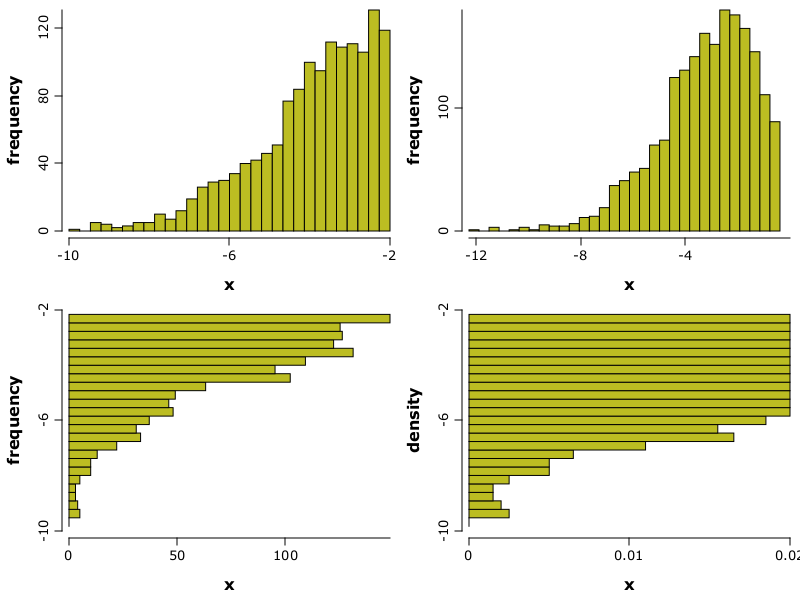
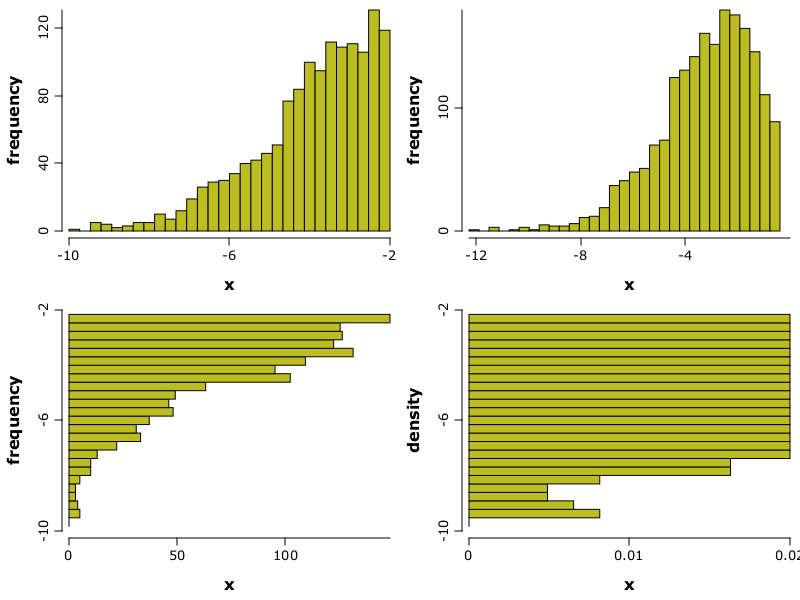
- v4.0.0 - fix a histogram artist bug (not display properly when using prob parameter) - merge into a single mvn

Changed region(s): [[0.5938, 0.69, 1.0, 0.87]]

diff --git a/tst/rapaio/graphics/plot/artist/HistogramTest.java b/tst/rapaio/graphics/plot/artist/HistogramTest.java
@@ -2,6 +2,7 @@ package rapaio.graphics.plot.artist;
 
 import static rapaio.graphics.Plotter.*;
 import static rapaio.sys.With.bins;
+import static rapaio.sys.With.fill;
 import static rapaio.sys.With.horizontal;
 import static rapaio.sys.With.prob;
 
@@ -15,8 +16,8 @@ import rapaio.data.Frame;
 import rapaio.data.Mapping;
 import rapaio.data.Var;
 import rapaio.datasets.Datasets;
+import rapaio.graphics.opt.NColor;
 import rapaio.graphics.plot.GridLayer;
-import rapaio.graphics.plot.artist.AbstractArtistTest;
 import rapaio.image.ImageTools;
 
 public class HistogramTest extends AbstractArtistTest {
@@ -36,12 +37,20 @@ public class HistogramTest extends AbstractArtistTest {
 
         GridLayer grid = new GridLayer(2, 2);
 
-        grid.add(hist(x, -10, -2, bins(30)).xLim(-10,-2));
+        grid.add(hist(x, -10, -2, bins(30)).xLim(-10, -2));
         grid.add(hist(x));
 
-        grid.add(hist(x, bins(40), horizontal(true)).yLim(-10,-2));
-        grid.add(hist(x, bins(40), horizontal(true), prob(true)).yLim(-10,-2).xLim(0, 0.02));
+        grid.add(hist(x, bins(40), horizontal(true)).yLim(-10, -2));
+        grid.add(hist(x, bins(40), horizontal(true), prob(true)).yLim(-10, -2).xLim(0, 0.02));
 
         assertTest(grid, "hist-test");
+    }
+
+    @Test
+    void testNormedHistogram() throws IOException {
+        Frame iris = Datasets.loadIrisDataset();
+        var v = iris.rvar("sepal-length");
+        assertTest(hist(v, bins(30), prob(true), fill(NColor.tab_purple))
+                .densityLine(v, (v.dv().max() - v.dv().min())/15), "hist-density-test");
     }
 }

diff --git a/src/rapaio/io/Csv.java b/src/rapaio/io/Csv.java
@@ -289,7 +289,7 @@ public class Csv extends ParamSet<Csv> {
         List<Var> variables = new ArrayList<>();
         for (int i = 0; i < varSlots.size(); i++) {
             String name = names.size() > i ? names.get(i) : "V" + (i + 1);
-            variables.add(varSlots.get(i).rvar().name(name));
+            variables.add(varSlots.get(i).var.name(name));
         }
         return SolidFrame.byVars(rows - startRow.get(), variables);
     }
@@ -441,13 +441,12 @@ public class Csv extends ParamSet<Csv> {
         return label;
     }
 
-    static class VarSlot {
+    private static class VarSlot {
 
         private final Csv parent;
-
         private final VarType type;
         private Var var;
-        private VarString text;
+        public VarString text;
 
         /**
          * Constructor for slot which does not have a predefined type, it tries the best by using default types
@@ -542,10 +541,6 @@ public class Csv extends ParamSet<Csv> {
                                     value, var.type(), var.name(), th.getMessage()));
                 }
             }
-        }
-
-        public Var rvar() {
-            return var;
         }
     }
 }

diff --git a/src/rapaio/math/linear/DVector.java b/src/rapaio/math/linear/DVector.java
@@ -37,6 +37,7 @@ import rapaio.printer.Printable;
 import rapaio.util.DoubleComparator;
 import rapaio.util.DoubleComparators;
 import rapaio.util.collection.DoubleArrays;
+import rapaio.util.collection.IntArrays;
 import rapaio.util.function.Double2DoubleFunction;
 import rapaio.util.function.Int2DoubleFunction;
 
@@ -163,6 +164,18 @@ public interface DVector extends Serializable, Printable, Iterable<Double> {
     default DVector mapNew(int[] indexes) {
         DVectorDense result = new DVectorDense(indexes.length);
         return mapTo(indexes, result);
+    }
+
+    default DVector range(int start, int end) {
+        return map(IntArrays.newSeq(start, end));
+    }
+
+    default DVector rangeTo(int start, int end, DVector to) {
+        return mapTo(IntArrays.newSeq(start, end), to);
+    }
+
+    default DVector rangeNew(int start, int end) {
+        return mapNew(IntArrays.newSeq(start, end));
     }
 
     /**

diff --git a/src/rapaio/graphics/plot/artist/Histogram.java b/src/rapaio/graphics/plot/artist/Histogram.java
@@ -30,9 +30,6 @@ import java.awt.Graphics2D;
 import java.awt.geom.Rectangle2D;
 import java.io.Serial;
 
-import rapaio.core.stat.Maximum;
-import rapaio.core.stat.Minimum;
-import rapaio.core.stat.Quantiles;
 import rapaio.core.tools.HistogramTable;
 import rapaio.data.Var;
 import rapaio.graphics.opt.GOption;
@@ -40,7 +37,6 @@ import rapaio.graphics.opt.GOptionFill;
 import rapaio.graphics.plot.Artist;
 import rapaio.graphics.plot.Axis;
 import rapaio.graphics.plot.Plot;
-import rapaio.math.MathTools;
 import rapaio.math.linear.dense.DVectorDense;
 
 /**
@@ -113,7 +109,8 @@ public class Histogram extends Artist {
     private void buildData() {
         freqTable = hist.freq().copy();
         if (getOptions().getProb()) {
-            freqTable.div(freqTable.sum());
+            double step = (hist.max() - hist.min()) / hist.bins();
+            freqTable.div(freqTable.sum() * step);
         }
     }
 

diff --git a/src/rapaio/ml/model/linear/binarylogistic/BinaryLogisticIRLS.java b/src/rapaio/ml/model/linear/binarylogistic/BinaryLogisticIRLS.java
@@ -68,7 +68,7 @@ public class BinaryLogisticIRLS extends ParamSet<BinaryLogisticIRLS> {
     public record Result(List<Double> nlls, List<DVector> ws, boolean converged) {
 
         public DVector getW() {
-            if (ws.size() > 0) {
+            if (!ws.isEmpty()) {
                 return ws.get(ws.size() - 1);
             }
             return null;

diff --git a/src/rapaio/core/distributions/empirical/KDE.java b/src/rapaio/core/distributions/empirical/KDE.java
@@ -137,8 +137,7 @@ public class KDE implements Serializable {
         if (sd == 0) {
             sd = 1;
         }
-        double count = 0;
-        for (int i = 0; i < vector.size(); i++) if (!vector.isMissing(i)) count++;
+        double count = vector.stream().complete().count();
         return 1.06 * sd * Math.pow(count, -1. / 5.);
     }
 }

diff --git a/README.md b/README.md
@@ -51,12 +51,12 @@ KMeans. Additionaly there is a fair share of graphical tools and linear algebra 
 
 ## Installation
 
-Last published release on maven central is 3.0.0
+Last published release on maven central is 4.0.0
 
        <dependency>
          <groupId>io.github.padreati</groupId>
          <artifactId>rapaio</artifactId>
-         <version>3.0.0</version>
+         <version>4.0.0</version>
        </dependency>
 
 The best way for exploration is through jupyter / jupyter-lab notebooks. This is excellent for experimenting with interactive notebooks or
@@ -64,7 +64,7 @@ to document the ideas you are working on. You have to install jupyter / jupyter-
 the instruction from
 [IJava](https://github.com/SpencerPark/IJava#installing). The following notation is specific to IJava kernel jupyter notation.
 
-    %maven io.github.padreati:rapaio:3.0.0  
+    %maven io.github.padreati:rapaio:4.0.0  
 
 ## Acknowledgements
 
